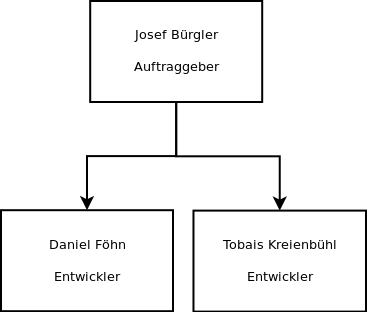
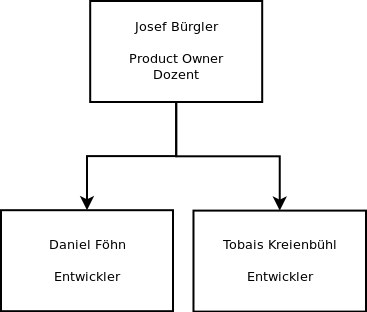
removed TODO to update organisation picture

Changed region(s): [[0.3597, 0.0577, 0.5995, 0.1442], [0.3297, 0.1731, 0.6294, 0.2596]]

diff --git a/docs/pmp/projekt_organisation.tex b/docs/pmp/projekt_organisation.tex
@@ -1,7 +1,7 @@
 %!TEX root = PMP_ClockPendulumAnalyzer.tex
 \section{Projektorganisation}
-    Das Projekt besteht aus 2 Entwicklern und einem Auftraggeber der als Ansprechperson gilt. Dadurch wird die Projektorganisation möglichst klein gehalten. Die Verantwortung wird gleichmässig auf die beiden Entwickler aufgeteilt.
-    \begin{figure}[H]%TODO Update organisation image
+    Das Projekt besteht aus 2 Entwicklern und einem Product Owner der als Ansprechperson gilt. Dadurch wird die Projektorganisation möglichst klein gehalten. Die Verantwortung wird gleichmässig auf die beiden Entwickler aufgeteilt. Die Abbildung \ref{fig:projektorganisation} gibt einen Überblick.
+    \begin{figure}[H]
         \centering
         \includegraphics[width=.5\textwidth]{organisation.png}
         \caption{einfache Projektorganisationsstruktur}
